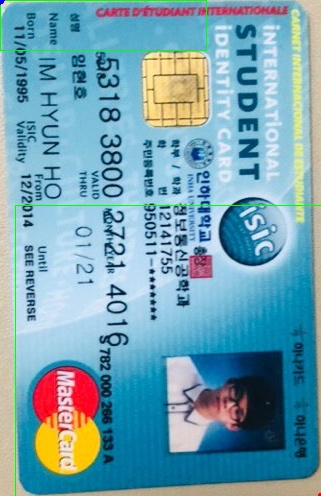
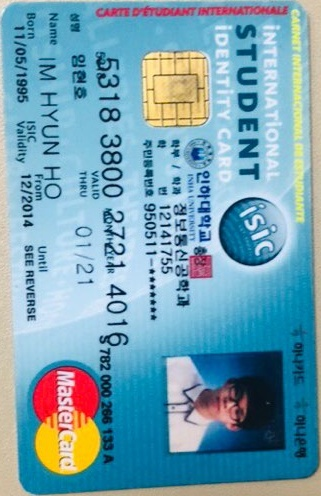
숫자영역잡기

Changed region(s): [[0.0312, 0.3931, 1.0, 1.0], [0.0, 0.0, 0.6542, 0.121], [0.9657, 0.9677, 1.0, 1.0]]

diff --git a/notebook_openCV.py b/notebook_openCV.py
@@ -27,7 +27,7 @@ for cnt in contours:
     x,y,w,h = cv2.boundingRect(cnt)
     rect_area = w*h
     if(rect_area>=10000):
-        cv2.rectangle(frame,(x,y),(x+w,y+h),(0,255,0),1)
+        #cv2.rectangle(frame,(x,y),(x+w,y+h),(0,255,0),1)
         if(minx > x):minx=x
         if(miny > y):miny=y
         if(maxx < x+w):maxx=x+w
@@ -37,13 +37,14 @@ for cnt in contours:
         #rect_area=w*h
         #cv2.rectangle(frame,(x,y),(x+w,y+h),(0,255,0),1)
 
-#print("minx:%d miny:%d",minx,miny)
-#print("maxx:%d maxy:%d",maxx,maxy)
 #cv2.circle(frame,(maxx,maxy),1,(0,0,255),5) #red
 #cv2.circle(frame,(minx,miny),1,(255,0,0),5) #blue
 cv2.imshow('RGB',frame)
 trim = frame[miny:maxy,minx:maxx]
 cv2.imwrite('trim.jpg',trim)
+cv2.circle(trim,(150,190),1,(255,0,0),5) #blue
+cv2.circle(trim,(180,300),1,(0,0,255),5) #red
+cv2.rectangle(trim,(150,190),(180,300),(0,255,0),1)
 img = cv2.imshow('trim',trim)
 
 while (1):
